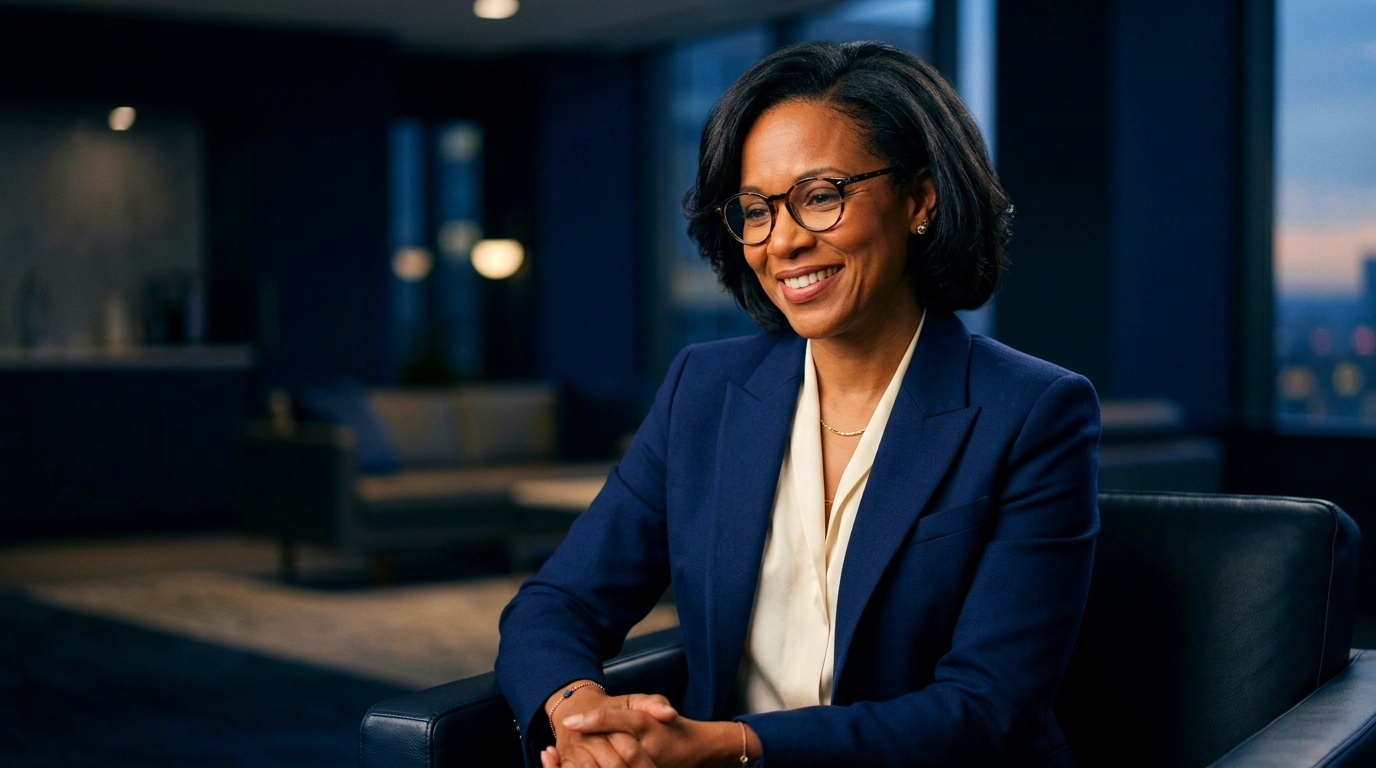
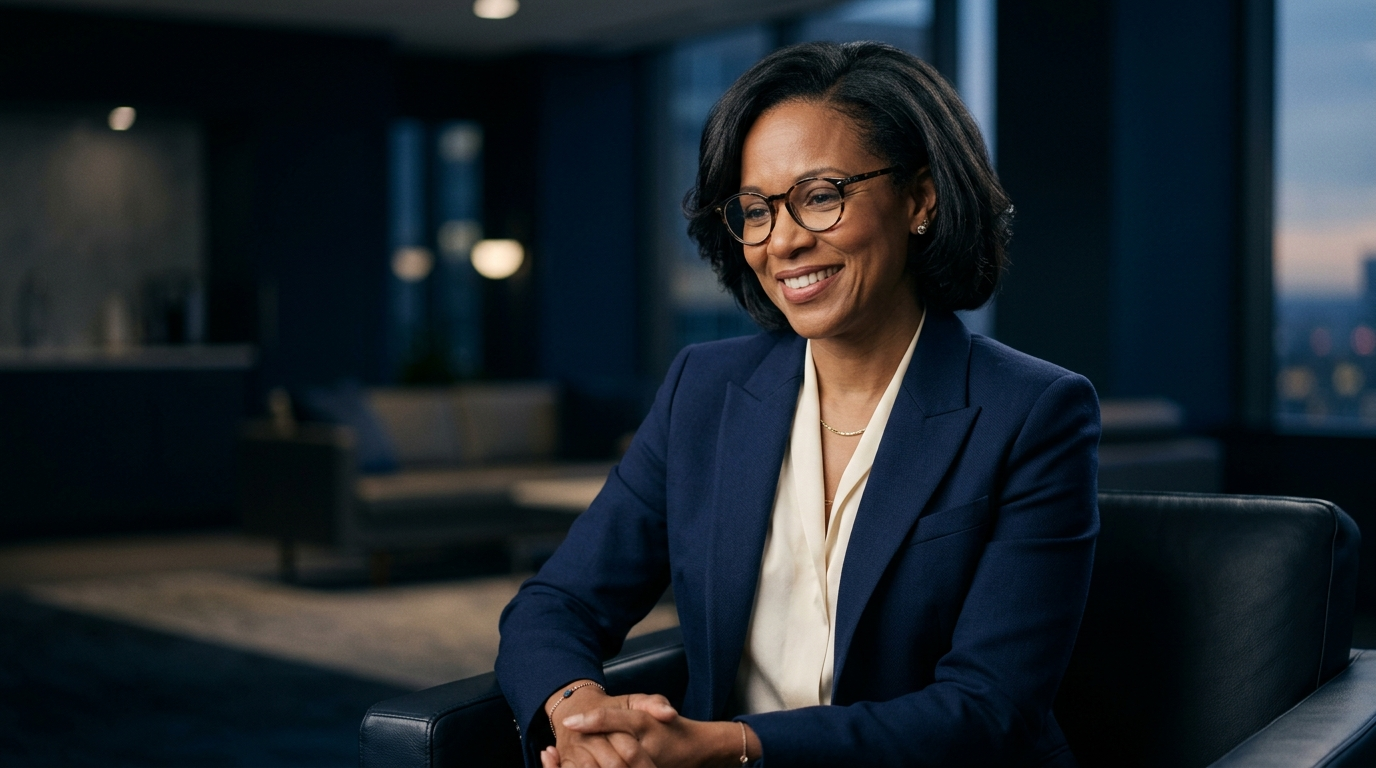
fix(hero): restore original transparent hero executive image and eliminate box border

diff --git a/index.html b/index.html
@@ -432,7 +432,7 @@
     <!-- Full-Height Executive Portrait Stage -->
     <div class="hero-portrait-stage" aria-hidden="true">
       <img 
-        src="images/hero-executive-transparent.png" 
+        src="images/hero-executive-transparent.png?v=2.4" 
         alt="Healthcare Revenue Cycle Executive Leader" 
         class="hero-full-portrait-img"
         width="900"
